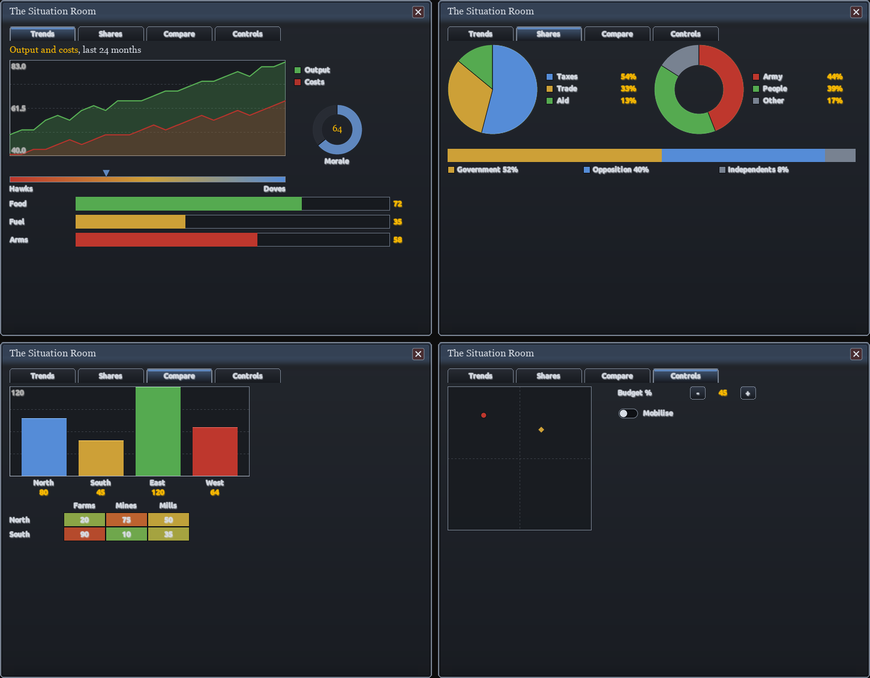
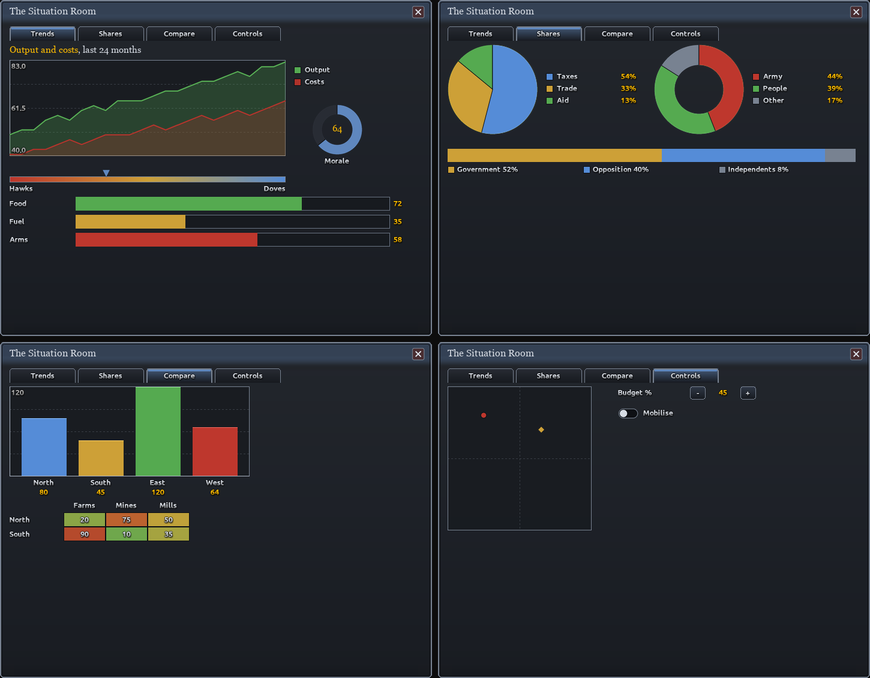
Sharper preview: game font outlines, DPI-aware app, crisp zoom
- Bitmap fonts: draw glyphs the way the game does (colour x the shaded
  glyph in the red channel over the dark outline in alpha) instead of
  filling the whole alpha area, which smeared every letter
- App: per-monitor DPI aware, so Windows no longer bitmap-stretches it on
  scaled displays; default zoom follows the display scale; whole-number
  zooms use nearest-neighbour, 300% added
- LineChart: optional sub= cells per segment (more height levels, but a
  staircase look on gentle slopes, so one cell stays the default)
- README screenshots re-rendered

diff --git a/guigen/charts.py b/guigen/charts.py
@@ -362,20 +362,29 @@ class LineChart(Chart):
     series = [{"array": "XYZ_gdp_hist", "label": "GDP", "colour": "green", "source": "XYZ_gdp"}, ...]
     points: how many values are shown (the newest `points` entries; the record effect keeps the array at this size).
     lo / hi: numbers, variables, or None to scale to the data. Sets <name>_lo, <name>_hi, <name>_mid.
-    Sprite mode: `levels` vertical steps per segment (16 is smooth enough for ~120 px).
-    Shader mode: pixel-exact, anti-aliased lines via gfx/FX/guigen_line.shader (experimental).
+    Sprite mode: each segment is one cell, a frame sheet of `levels` x `levels` start / end heights
+    (cell_width x levels^2 pixels, kept within max_sheet; levels is picked automatically, at most 40).
+    sub=2..4 splits each segment into narrower cells, which allows more levels, but on gentle slopes the
+    cells round to flat-then-step and the line looks like a staircase, so one cell is the default.
+    For smooth lines use shader mode: pixel-exact, anti-aliased lines via gfx/FX/guigen_line.shader
+    (experimental).
     """
 
     def __init__(self, p, b, name, x, y, w, h, series, points=12, lo=None, hi=None, levels=None, width=2.0, area=False,
-                 dots=False, y_div=4, labels=True, value_fmt="1", mode="sprite", max_sheet=8192):
+                 dots=False, y_div=4, labels=True, value_fmt="1", mode="sprite", max_sheet=8192, sub=None):
         super().__init__(p, b, name, x, y, mode)
         self.series = _items(series, ("array", "label", "colour"))
-        self.cw = cw = w // (points - 1)
-        if levels is None:          # as smooth as the sheet width allows (cell width x levels^2 <= max_sheet), 8..40
-            levels = max(8, min(40, int((max_sheet / cw) ** 0.5), h // 3))
+        seg_w = w // (points - 1)
+        fit = lambda cell: int((max_sheet / cell) ** 0.5)          # most levels a cell width allows
+        if mode == "shader" or sub is None:
+            sub = 1
+        if levels is None:
+            levels = max(8, min(40, fit(seg_w // sub), h // 3))
+        self.sub = sub
+        self.cw = cw = seg_w // sub                              # one cell (a segment is `sub` cells)
         self.points, self.lo, self.hi, self.levels, self.value_fmt = points, lo, hi, levels, value_fmt
         n, N = self.name, self.N
-        self.w, self.h = cw * (points - 1), h
+        self.w, self.h = cw * sub * (points - 1), h
         self.pad = int(width) + 1
         self.sprite(ChartBackground(self.gfx(f"bg_{self.w}x{h}"), self.png(f"bg_{self.w}x{h}"), self.w, h, y_div, points - 1 if points <= 13 else 0))
         b.icon(f"{n}_bg", x, y, self.gfx(f"bg_{self.w}x{h}"), frame=None)
@@ -392,9 +401,10 @@ class LineChart(Chart):
                                                     colortwo=tuple(round(c / 255, 3) for c in rgb) + (1,)))
                 fmax = 1000000
             for i in range(points - 1):
-                b.icon(f"{n}_s{s}_{i}", x + i * cw, y, spr.name, frame=1 if mode == "sprite" else 0,
-                       frame_var=self.frame_var(f"{n}_f{s}_{i}", fmax), tooltip=f"{N}_PT{s}_{i}",
-                       visible=f"check_variable = {{ {se['array']}^num > {i + 1} }}", w=cw, h=h)
+                for j in range(self.sub):
+                    b.icon(self.cell_name(s, i, j), x + (i * self.sub + j) * cw, y, spr.name, frame=1 if mode == "sprite" else 0,
+                           frame_var=self.frame_var(self.cell_var(s, i, j), fmax), tooltip=f"{N}_PT{s}_{i}",
+                           visible=f"check_variable = {{ {se['array']}^num > {i + 1} }}", w=cw, h=h)
                 self.loc(f"{N}_PT{s}_{i}", f"§Y{se.get('label', se['array'])}§!: §Y[?{n}_v{s}_{i}|{value_fmt}]§!")
         if labels:
             b.text(f"{n}_hi", x + 3, y + 2, f"{N}_HI", 70, 16)
@@ -403,6 +413,12 @@ class LineChart(Chart):
             self.loc(f"{N}_HI", f"§g[?{n}_hi|{value_fmt}]§!")
             self.loc(f"{N}_MID", f"§g[?{n}_mid|{value_fmt}]§!")
             self.loc(f"{N}_LO", f"§g[?{n}_lo|{value_fmt}]§!")
+
+    def cell_name(self, s, i, j):
+        return f"{self.name}_s{s}_{i}" if self.sub == 1 else f"{self.name}_s{s}_{i}_{j}"
+
+    def cell_var(self, s, i, j):
+        return f"{self.name}_f{s}_{i}" if self.sub == 1 else f"{self.name}_f{s}_{i}_{j}"
 
     @property
     def record(self):
@@ -443,20 +459,40 @@ class LineChart(Chart):
         scale = self.levels - 1 if self.mode == "sprite" else self.h - 2 * self.pad
         mult = self.levels if self.mode == "sprite" else 1000
         off = 0 if self.mode == "sprite" else self.pad
+        from .pdxscript import indent
+
+        def level(tv):
+            return (f"subtract_from_temp_variable = {{ {tv} = {lo} }}\n"
+                    f"multiply_temp_variable = {{ {tv} = {scale} }}\ndivide_temp_variable = {{ {tv} = {rng} }}\n"
+                    f"round_temp_variable = {tv}\nclamp_temp_variable = {{ var = {tv} min = 0 max = {scale} }}\n"
+                    + (f"add_to_temp_variable = {{ {tv} = {off} }}\n" if off else ""))
+
+        def point(tv, frac):
+            """tv = the value at `frac` (0..1) along the segment (gg_r0 + gg_rd * frac)."""
+            if frac == 0:
+                return f"set_temp_variable = {{ {tv} = gg_r0 }}\n"
+            if frac == 1:
+                return f"set_temp_variable = {{ {tv} = gg_r1 }}\n"
+            return (f"set_temp_variable = {{ {tv} = gg_rd }}\nmultiply_temp_variable = {{ {tv} = {num(round(frac, 4))} }}\n"
+                    f"add_to_temp_variable = {{ {tv} = gg_r0 }}\n")
+
         for si, se in enumerate(self.series):
             a = se["array"]
             for i in range(self.points - 1):
-                f = f"{n}_f{si}_{i}"
                 body = ""
-                for tv, idx in (("gg_a", i), ("gg_b", i + 1)):
-                    body += (f"set_temp_variable = {{ {tv} = {a}^{idx} }}\nsubtract_from_temp_variable = {{ {tv} = {lo} }}\n"
-                             f"multiply_temp_variable = {{ {tv} = {scale} }}\ndivide_temp_variable = {{ {tv} = {rng} }}\n"
-                             f"round_temp_variable = {tv}\nclamp_temp_variable = {{ var = {tv} min = 0 max = {scale} }}\n"
-                             + (f"add_to_temp_variable = {{ {tv} = {off} }}\n" if off else ""))
-                body += (f"set_variable = {{ {f} = gg_a }}\nmultiply_variable = {{ {f} = {mult} }}\nadd_to_variable = {{ {f} = gg_b }}\n"
-                         + ("add_to_variable = { %s = 1 }\n" % f if self.mode == "sprite" else "")
-                         + f"set_variable = {{ {n}_v{si}_{i} = {a}^{i} }}\n")
-                from .pdxscript import indent
+                if self.sub == 1:
+                    for tv, idx in (("gg_a", i), ("gg_b", i + 1)):
+                        body += f"set_temp_variable = {{ {tv} = {a}^{idx} }}\n" + level(tv)
+                else:
+                    body += (f"set_temp_variable = {{ gg_r0 = {a}^{i} }}\nset_temp_variable = {{ gg_r1 = {a}^{i + 1} }}\n"
+                             f"set_temp_variable = {{ gg_rd = gg_r1 }}\nsubtract_from_temp_variable = {{ gg_rd = gg_r0 }}\n")
+                for j in range(self.sub):
+                    f = self.cell_var(si, i, j)
+                    if self.sub > 1:
+                        body += point("gg_a", j / self.sub) + level("gg_a") + point("gg_b", (j + 1) / self.sub) + level("gg_b")
+                    body += (f"set_variable = {{ {f} = gg_a }}\nmultiply_variable = {{ {f} = {mult} }}\nadd_to_variable = {{ {f} = gg_b }}\n"
+                             + ("add_to_variable = { %s = 1 }\n" % f if self.mode == "sprite" else ""))
+                body += f"set_variable = {{ {n}_v{si}_{i} = {a}^{i} }}\n"
                 s += f"if = {{\n\tlimit = {{ check_variable = {{ {a}^num > {i + 1} }} }}\n{indent(body, 1)}}}\n"
         return s
 
@@ -480,8 +516,12 @@ class LineChart(Chart):
         for si, arr in enumerate(arrays):
             for i in range(self.points - 1):
                 if len(arr) > i + 1:
-                    a, b_ = lvl(arr[i]), lvl(arr[i + 1])
-                    out[f"{n}_f{si}_{i}"] = LineSegments.frame_of(a, b_, self.levels) if self.mode == "sprite" else line_frame(a, b_)
+                    r0, r1 = arr[i], arr[i + 1]
+                    for j in range(self.sub):
+                        v0 = r0 + (r1 - r0) * round(j / self.sub, 4) if 0 < j else r0
+                        v1 = r1 if j + 1 == self.sub else r0 + (r1 - r0) * round((j + 1) / self.sub, 4)
+                        a, b_ = lvl(v0), lvl(v1)
+                        out[self.cell_var(si, i, j)] = LineSegments.frame_of(a, b_, self.levels) if self.mode == "sprite" else line_frame(a, b_)
                     out[f"{n}_v{si}_{i}"] = arr[i]
         return out
 

diff --git a/guigen/app.py b/guigen/app.py
@@ -43,7 +43,9 @@ class App:
         self.mock = tk.StringVar(value=cfg.get("mock", ""))
         self.board = tk.StringVar(value=cfg.get("board", ""))
         self.sets = tk.StringVar(value="")
-        self.zoom = tk.StringVar(value=cfg.get("zoom", "100%"))
+        scale = display_scale(root)
+        default_zoom = "200%" if scale >= 1.75 else "150%" if scale >= 1.25 else "100%"
+        self.zoom = tk.StringVar(value=cfg.get("zoom", default_zoom))
         self.debug = tk.BooleanVar(value=False)
         self.tooltips = tk.BooleanVar(value=False)
         self.watch = tk.BooleanVar(value=True)
@@ -80,7 +82,7 @@ class App:
         e.pack(side="left")
         e.bind("<Return>", lambda ev: self.render(reset_mock=True))
         ttk.Label(bar, text="Zoom").pack(side="left", padx=(12, 2))
-        z = ttk.Combobox(bar, textvariable=self.zoom, values=["50%", "75%", "100%", "150%", "200%"], width=6, state="readonly")
+        z = ttk.Combobox(bar, textvariable=self.zoom, values=["50%", "75%", "100%", "150%", "200%", "300%"], width=6, state="readonly")
         z.pack(side="left")
         z.bind("<<ComboboxSelected>>", lambda e: self.show())
         for text, var in (("Debug boxes", self.debug), ("Tooltips", self.tooltips), ("Watch file", self.watch)):
@@ -266,7 +268,9 @@ class App:
             return
         from PIL import ImageTk
         z = int(self.zoom.get().rstrip("%")) / 100
-        im = self.img if z == 1 else self.img.resize((max(1, int(self.img.width * z)), max(1, int(self.img.height * z))), Image.LANCZOS)
+        # whole-number zooms keep every pixel sharp (nearest); in-between zooms resample smoothly
+        resample = Image.NEAREST if z >= 1 and float(z).is_integer() else Image.LANCZOS
+        im = self.img if z == 1 else self.img.resize((max(1, int(self.img.width * z)), max(1, int(self.img.height * z))), resample)
         bg = Image.new("RGBA", im.size, (20, 20, 20, 255))
         bg.alpha_composite(im)
         self._tk = ImageTk.PhotoImage(bg)
@@ -389,6 +393,7 @@ def main(argv=None):
         print("tkinter is not available in this Python; install the python.org build or use the command line.")
         return 1
     argv = sys.argv[1:] if argv is None else argv
+    _dpi_aware()
     root = tk.Tk()
     _set_icon(root)
     app = App(root)
@@ -405,6 +410,29 @@ def main(argv=None):
         app.render(reload=True)
     root.mainloop()
     return 0
+
+
+def _dpi_aware():
+    """Tell Windows we draw at the real pixel density. Without it, Windows bitmap-stretches the whole app
+    on scaled displays (125%, 150% ...) and the preview turns blurry."""
+    if sys.platform != "win32":
+        return
+    import ctypes
+    try:
+        ctypes.windll.shcore.SetProcessDpiAwareness(2)          # per-monitor aware
+    except Exception:
+        try:
+            ctypes.windll.user32.SetProcessDPIAware()
+        except Exception:
+            pass
+
+
+def display_scale(root):
+    """The display's scale factor (1.0 at 96 dpi, 1.5 at 144 dpi ...)."""
+    try:
+        return max(1.0, root.winfo_fpixels("1i") / 96.0)
+    except Exception:
+        return 1.0
 
 
 def _set_icon(root):

diff --git a/guigen/preview.py b/guigen/preview.py
@@ -52,6 +52,9 @@ class BitmapFont:
                 kv = dict(re.findall(r'(\w+)=("[^"]*"|\S+)', rest))
                 if kind == "common":
                     self.size, self.base = int(kv["lineHeight"]), int(kv["base"])
+                    # BMFont channels: 0 glyph, 1 outline, 2 glyph + outline, 3 zero, 4 one. The game's
+                    # outlined fonts keep glyph + dark outline in alpha and the (shaded) glyph in red.
+                    self.outlined = kv.get("alphaChnl") in ("1", "2") and kv.get("redChnl") in ("0", "2")
                 elif kind == "page" and kv.get("id") == "0":
                     page = kv["file"].strip('"')
                 elif kind == "char":
@@ -60,10 +63,31 @@ class BitmapFont:
                     self.kern[(int(kv["first"]), int(kv["second"]))] = int(kv["amount"])
         self.page = Image.open(os.path.join(os.path.dirname(fnt_path), page)).convert("RGBA")
         self.lineheight = self.size
+        self.outlined = getattr(self, "outlined", False)
         self._glyphs = {}
 
     def _char(self, c):
         return self.chars.get(ord(c)) or self.chars.get(ord("?"))
+
+    def glyph(self, box, colour):
+        """The glyph tinted the way the game does: colour x shading (red channel) over a dark outline
+        (alpha) for outlined fonts; a flat colour through alpha otherwise."""
+        key = (box, colour)
+        g = self._glyphs.get(key)
+        if g is None:
+            gx, gy, gw, gh = box
+            cell = self.page.crop((gx, gy, gx + gw, gy + gh))
+            a = cell.getchannel("A")
+            if self.outlined:
+                from PIL import ImageChops
+                shade = cell.getchannel("R")
+                rgb = [ImageChops.multiply(shade, Image.new("L", (gw, gh), c)) for c in colour]
+                g = Image.merge("RGBA", rgb + [a])
+            else:
+                g = Image.new("RGBA", (gw, gh), colour + (255,))
+                g.putalpha(a)
+            self._glyphs[key] = g
+        return g
 
     def getlength(self, s):
         w, prev = 0, None
@@ -85,12 +109,7 @@ class BitmapFont:
                 x += self.kern.get((prev, ord(c)), 0)
             gx, gy, gw, gh, xo, yo, adv = ch
             if gw and gh:
-                key = (gx, gy, gw, gh)
-                if key not in self._glyphs:
-                    self._glyphs[key] = self.page.crop((gx, gy, gx + gw, gy + gh)).getchannel("A")
-                mask = self._glyphs[key]
-                glyph = Image.new("RGBA", (gw, gh), tuple(fill) + (255,))
-                glyph.putalpha(mask)
+                glyph = self.glyph((gx, gy, gw, gh), tuple(fill[:3]))
                 px, py = int(x + xo), int(y + yo)
                 if px >= 0 and py >= 0 and px + gw <= img.width and py + gh <= img.height:
                     img.alpha_composite(glyph, (px, py))

diff --git a/tests/test_charts_windows.py b/tests/test_charts_windows.py
@@ -70,6 +70,16 @@ class TestCharts(Base):
         self.assertIn("remove_from_array = { array = TST_hist index = 0 }", names["TST_line_record"])
         self.assertIn("check_variable = { TST_hist^num > 2 }", p.scripted_gui_text())
 
+    def test_line_sub_cells_interpolate(self):
+        p, b = self.project()
+        lc = LineChart(p, b, "TST_line", 10, 10, 220, 90, [{"array": "TST_hist"}], points=12, levels=11, sub=2)
+        v = lc.mock_vars(Mock({"arrays": {"TST_hist": [0, 100]}}))
+        # 0 -> 100 over two cells: 0 -> 50 (level 5), 50 -> 100 (level 10)
+        self.assertEqual((v["TST_line_f0_0_0"], v["TST_line_f0_0_1"]),
+                         (LineSegments.frame_of(0, 5, 11), LineSegments.frame_of(5, 10, 11)))
+        self.assertEqual(len([e for e in b.elements() if e.name.startswith("TST_line_s0_")]), 22)
+        self.assertIn("multiply_temp_variable = { gg_a = 0.5 }", lc.update_body())
+
     def test_line_shader_writes_shader_file(self):
         p, b = self.project()
         LineChart(p, b, "TST_line", 10, 10, 220, 90, [{"array": "TST_hist"}], points=12, mode="shader")
